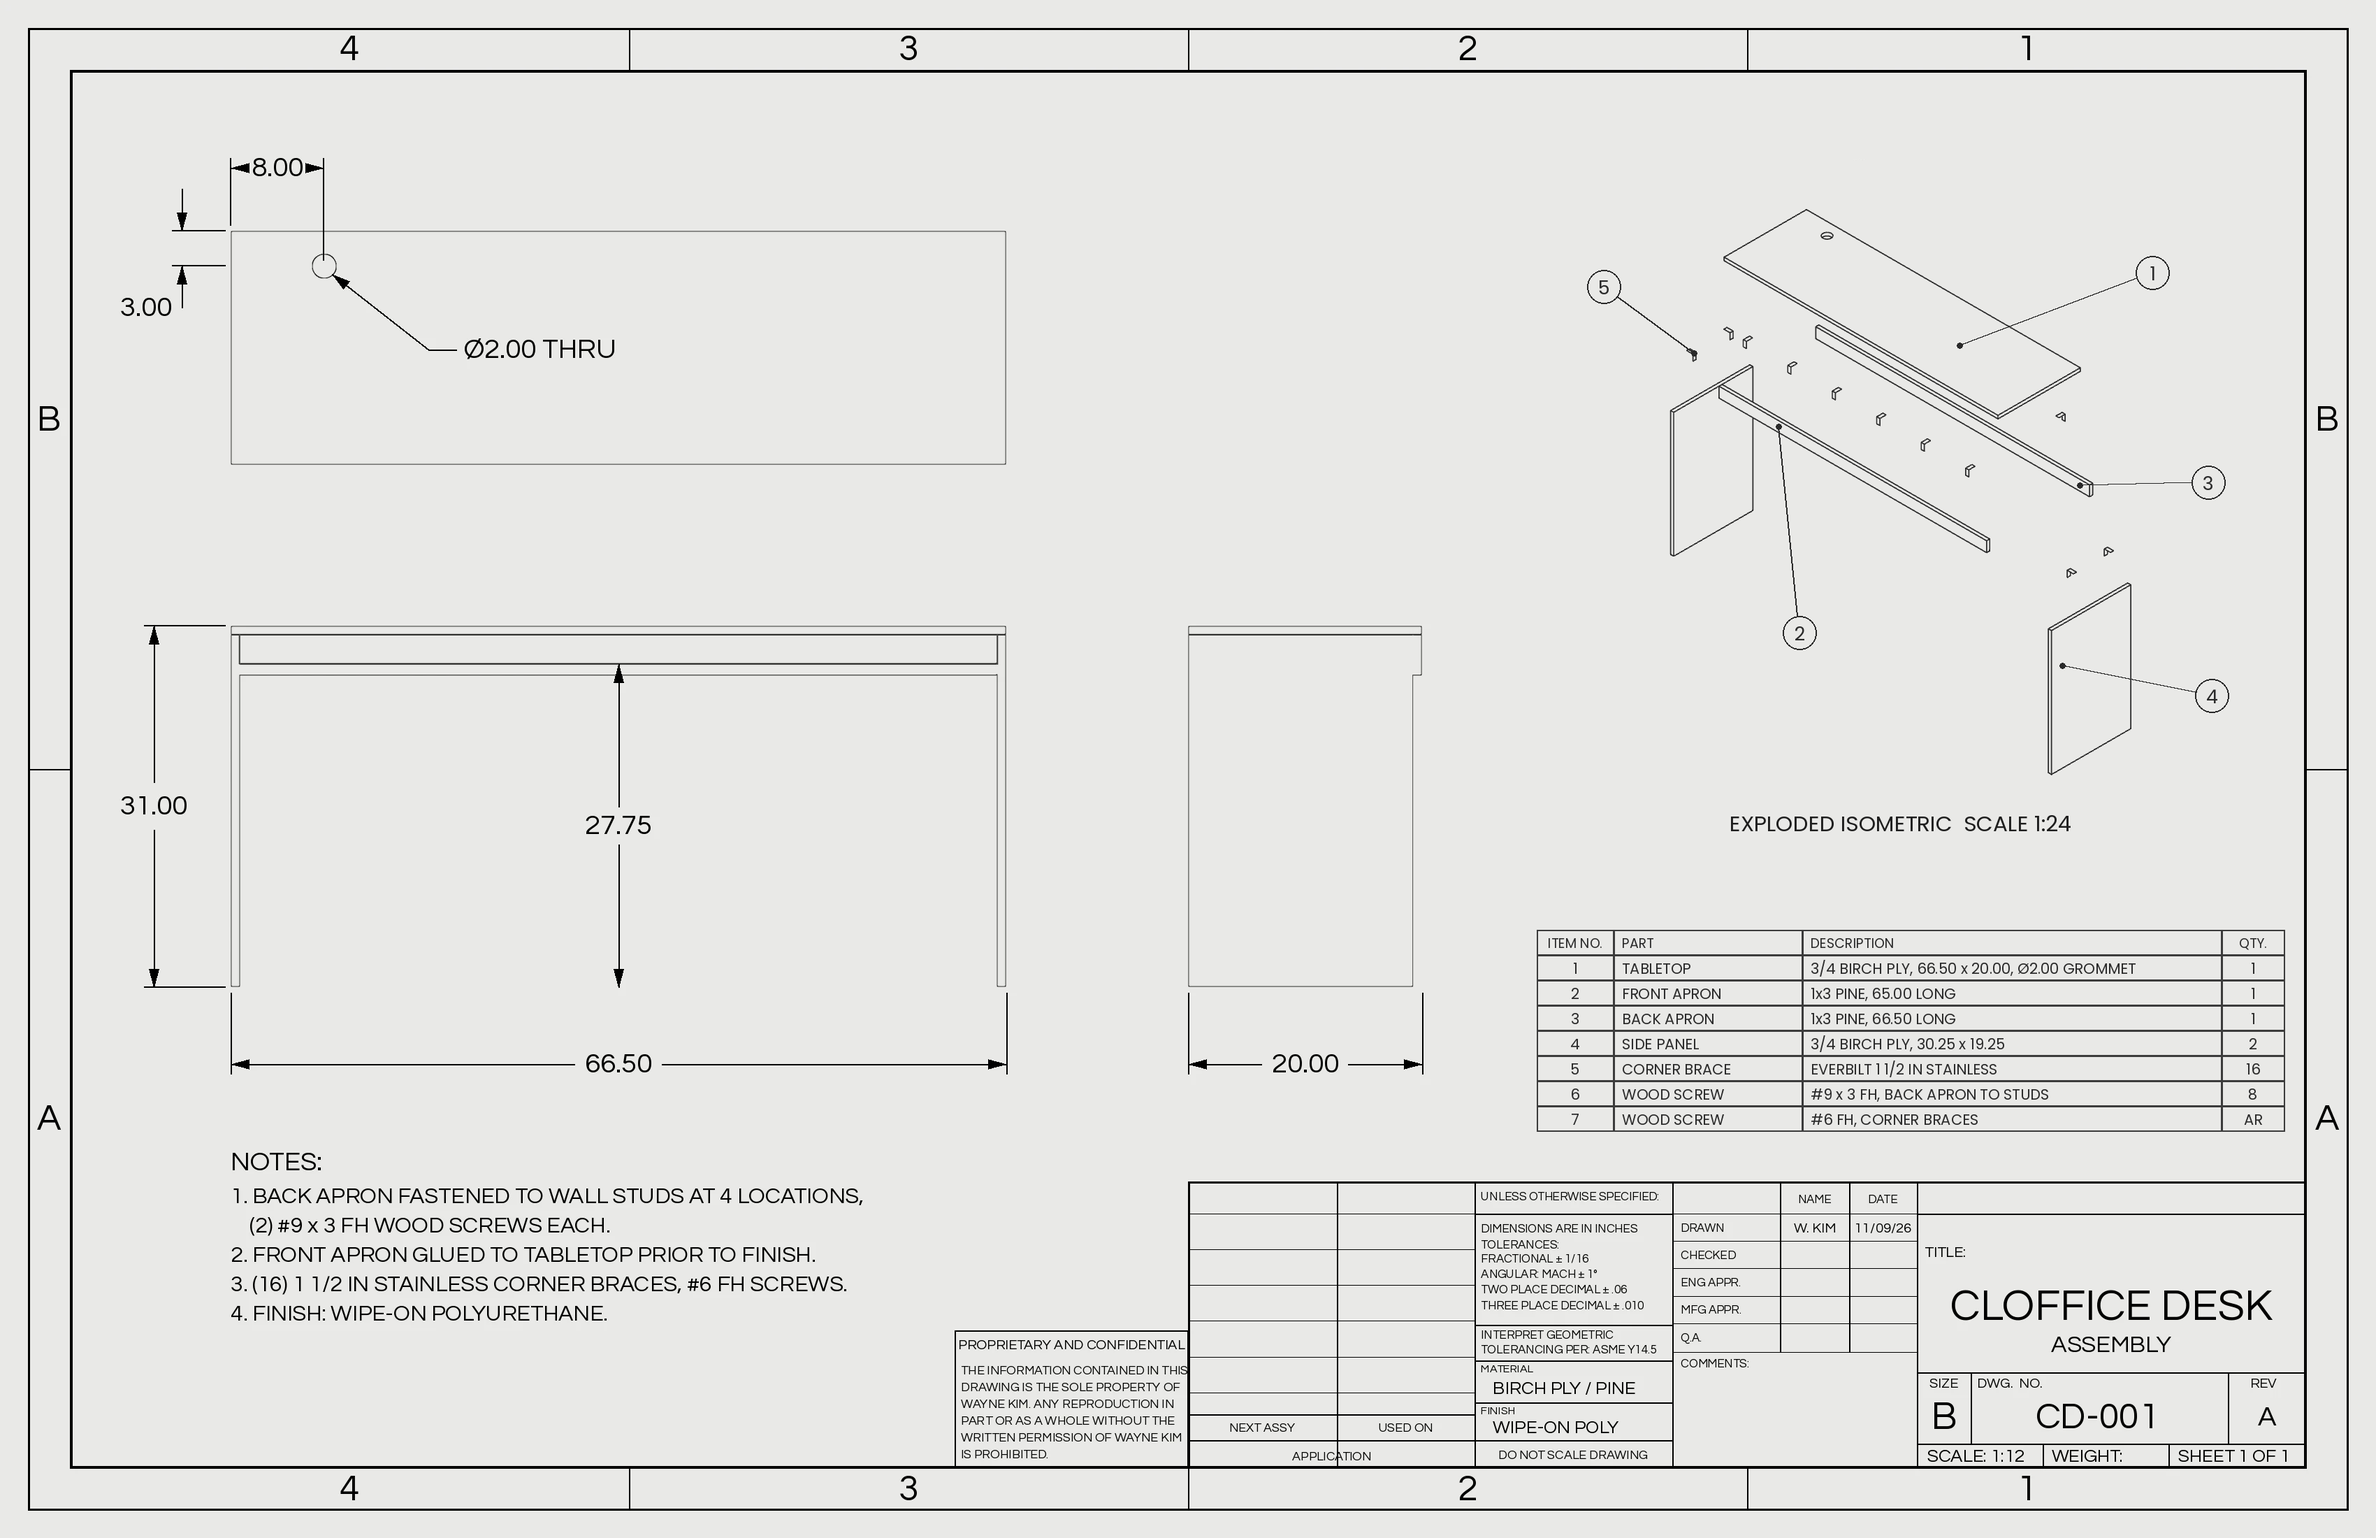
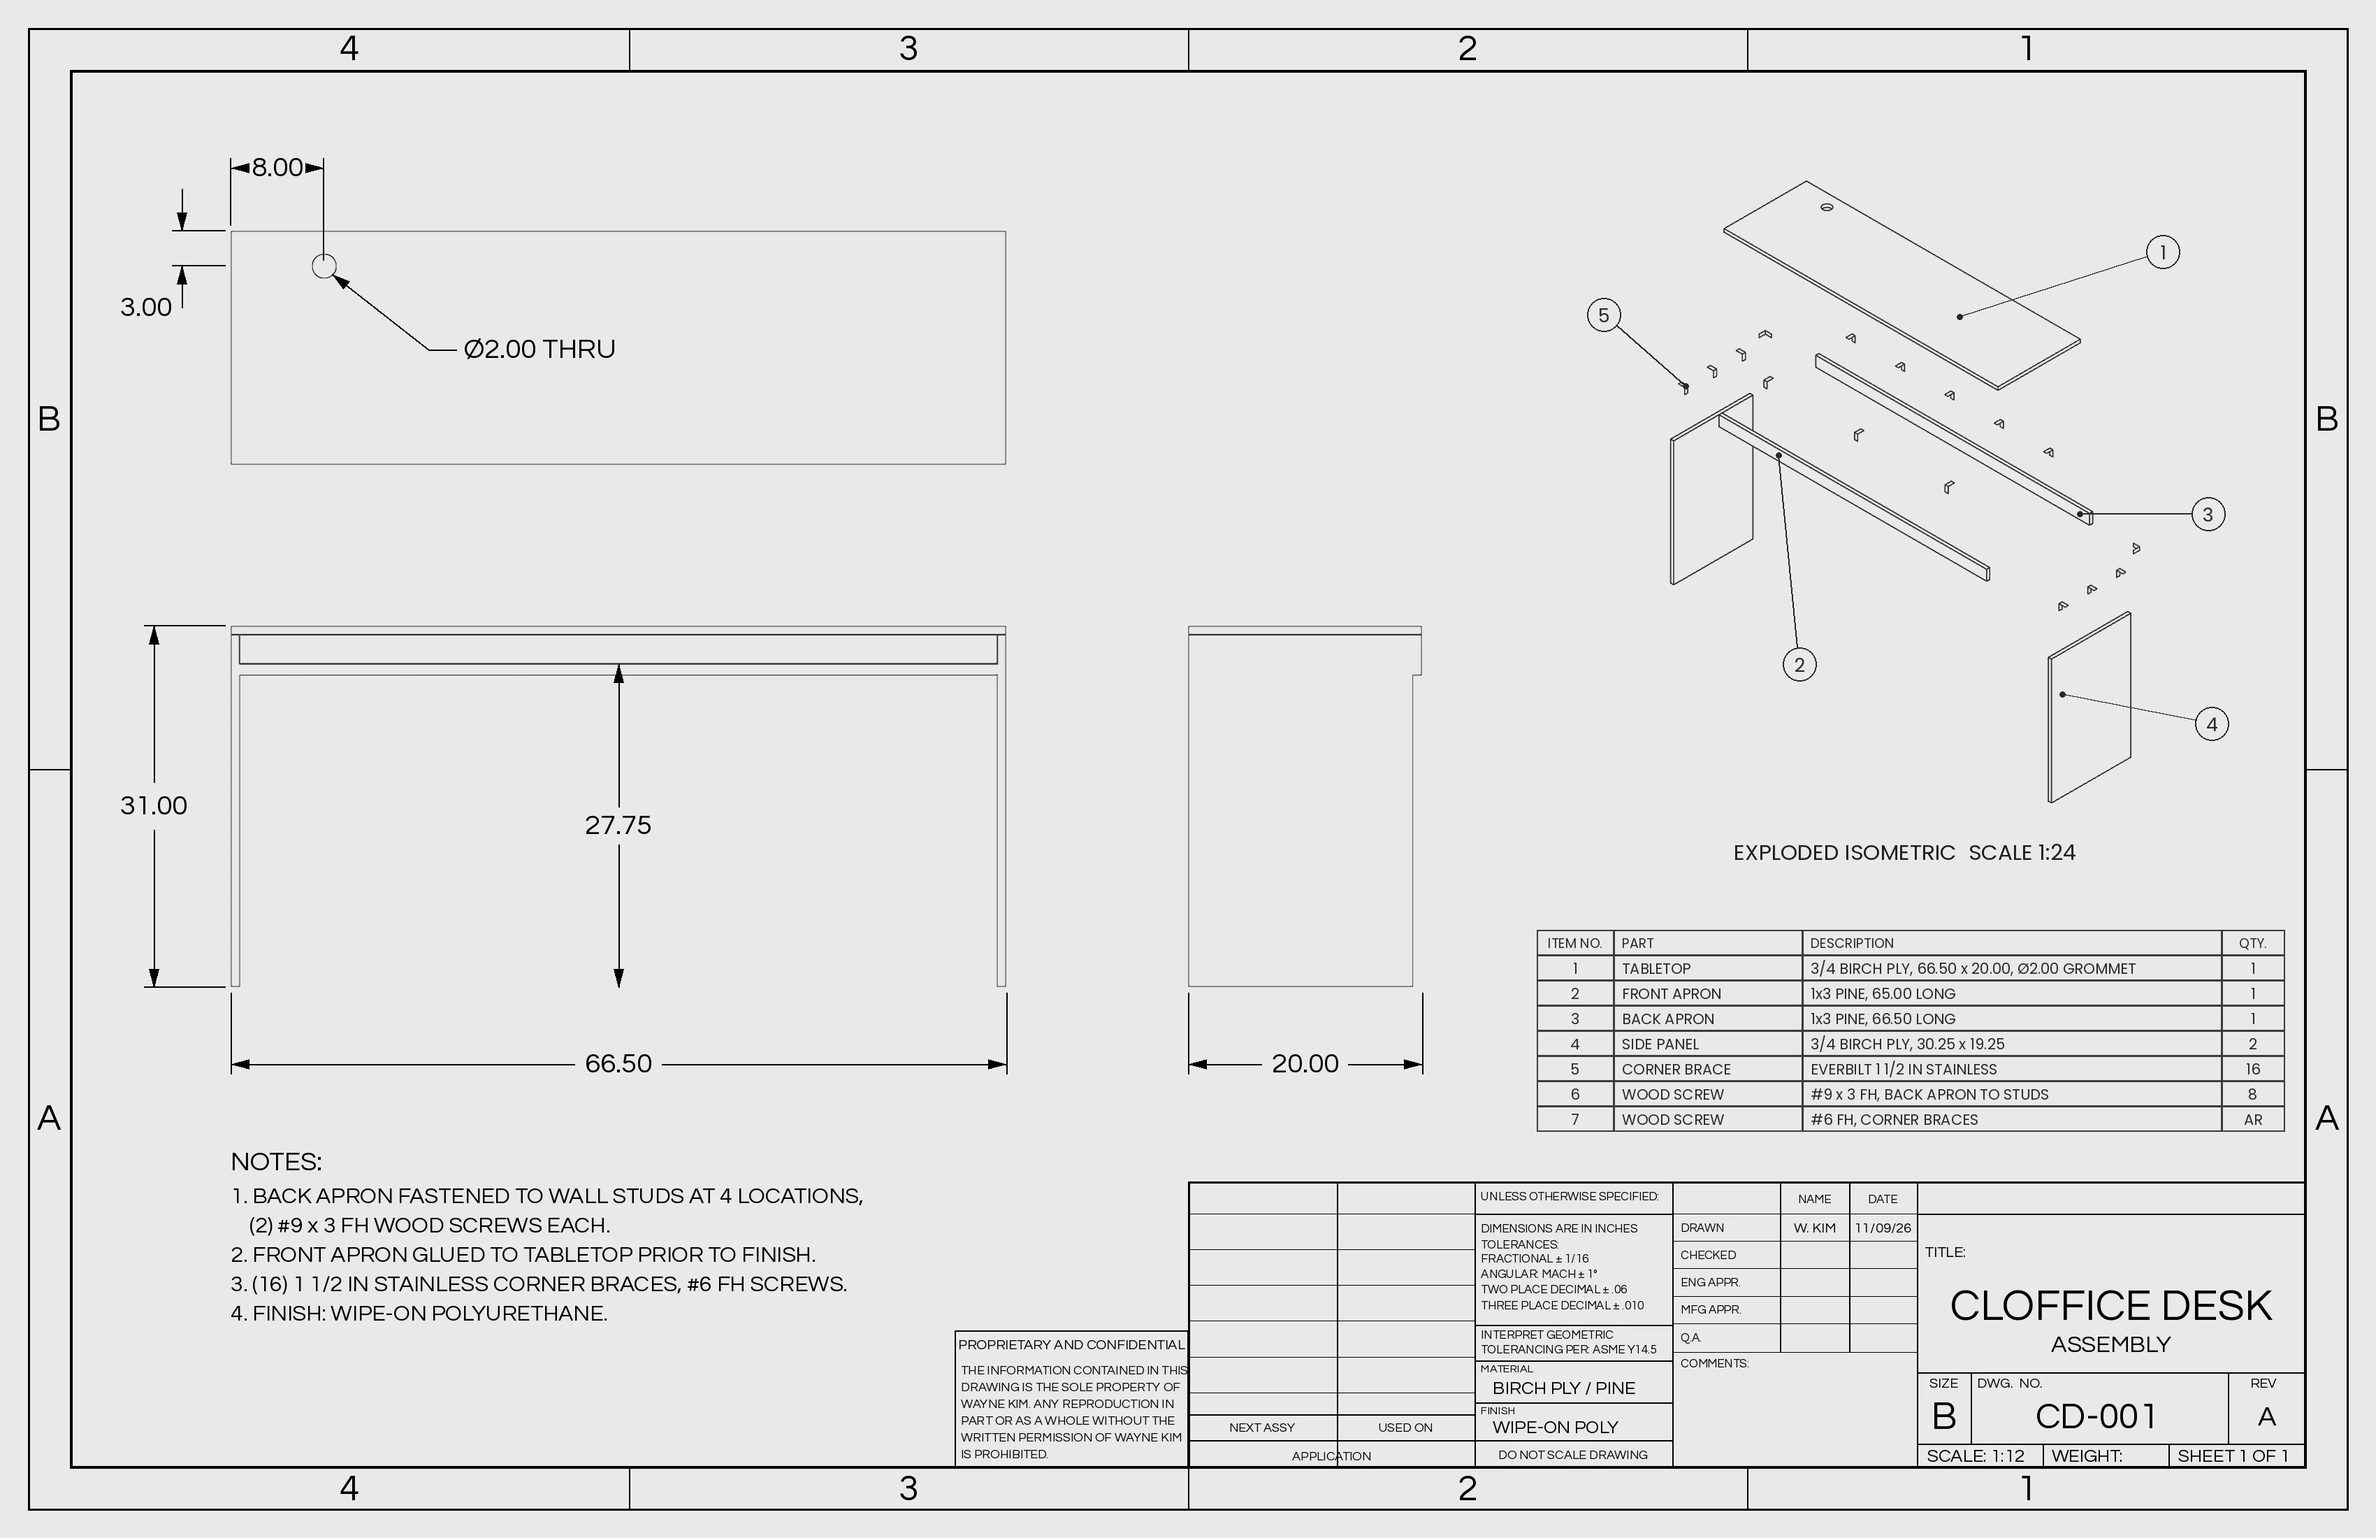
Cloffice: braces in the exploded view match the model (5 back, 3 front, 3 per leg, 2 corners); link the fellowship
Claude-Session: https://claude.ai/code/session_01CVY6wCxfQDYE3dbjZCgMcR

diff --git a/src/content/work/cloffice-desk.md b/src/content/work/cloffice-desk.md
@@ -35,7 +35,7 @@ facts:
 
 ## The closet
 
-I needed a real place to work after deciding to build out a breakfast nook and not wanting my work station to be in my bedroom. My den closet was empty. I'm a Product Design Fellow at the <a href="https://laincubator.org" target="_blank" rel="noopener">Los Angeles Cleantech Incubator (LACI)</a>, halfway through the program, and wanted to apply what I've learned to my own space and constraints. So I designed it in SolidWorks before cutting anything.
+I needed a real place to work after deciding to build out a breakfast nook and not wanting my work station to be in my bedroom. My den closet was empty. I'm a <a href="https://www.3ds.com/3dexperiencelab/startup-programs/incubator-collaboration/los-angeles-cleantech-incubator-laci" target="_blank" rel="noopener">Product Design Fellow</a> at the <a href="https://laincubator.org" target="_blank" rel="noopener">Los Angeles Cleantech Incubator (LACI)</a>, halfway through the program, and wanted to apply what I've learned to my own space and constraints. So I designed it in SolidWorks before cutting anything.
 
 <figure class="trio row">
   <img src="/work/cloffice-desk-assets/before.webp" alt="The empty closet before the build, with a hanging rod and a 3D printer on the floor"/>
